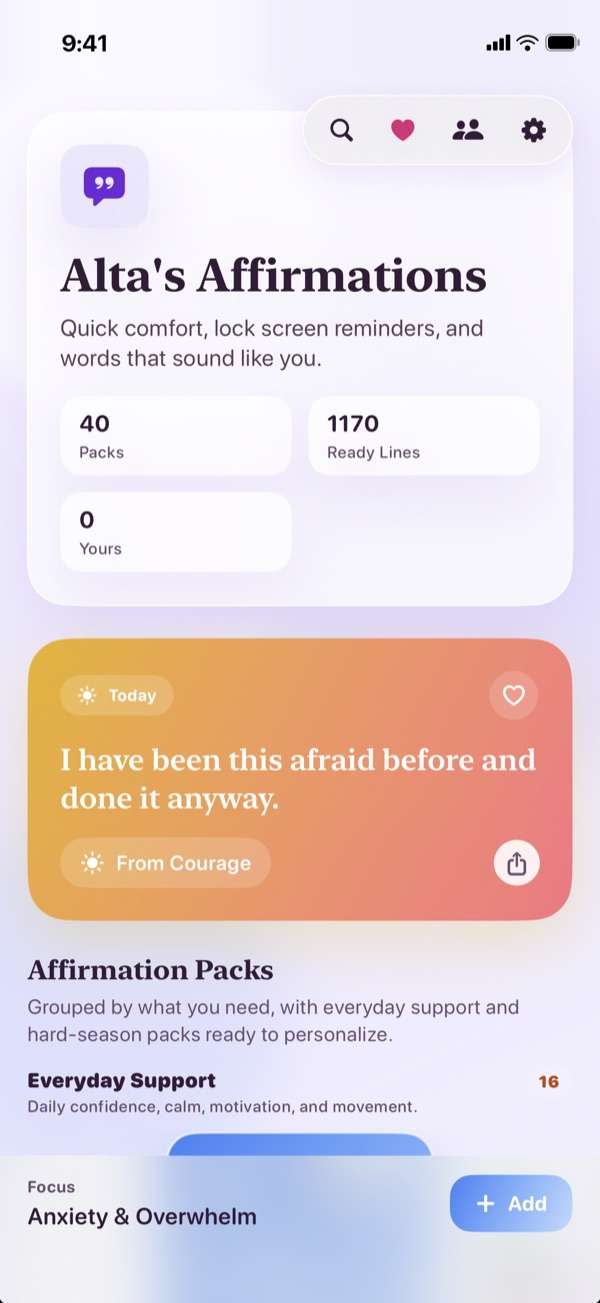
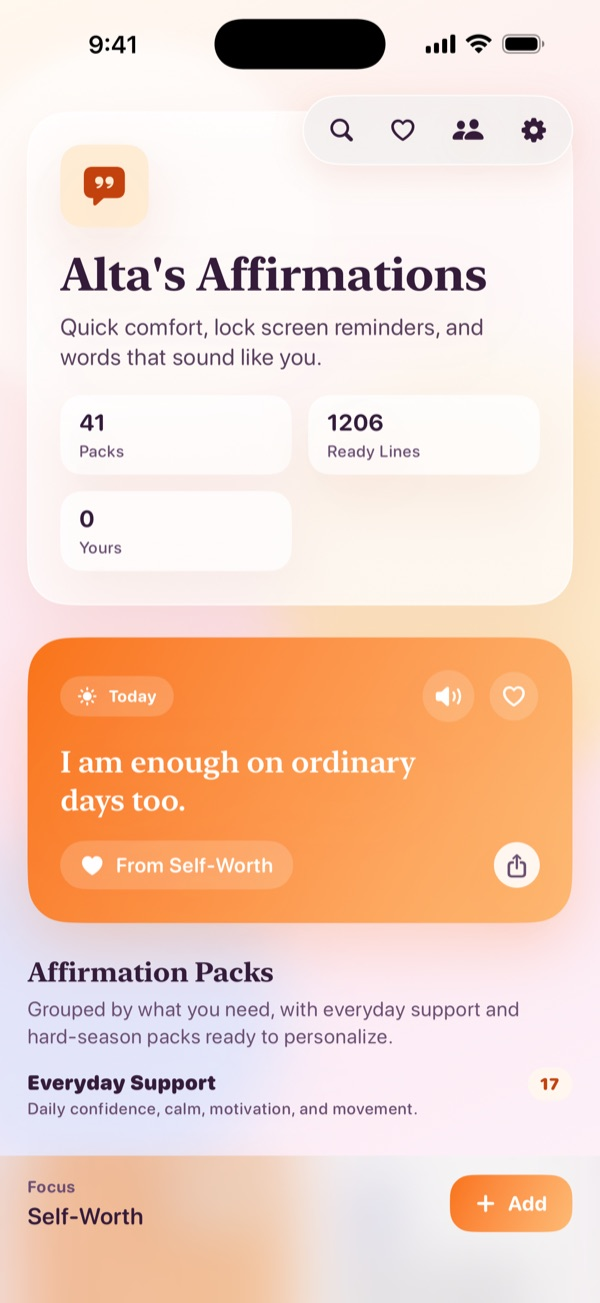
Update site

diff --git a/alta.html b/alta.html
@@ -73,7 +73,7 @@
           <div class="phone-frame">
             <span class="phone-island" aria-hidden="true"></span>
             <div class="phone-screen phone-screen--shot">
-              <img src="assets/shots/alta-hero.jpg" alt="Alta's Affirmations on iPhone: today's affirmation, “I have been this afraid before and done it anyway,” above the affirmation packs" width="600" height="1304">
+              <img src="assets/shots/alta-hero.jpg" alt="Alta's Affirmations on iPhone: 41 packs and 1,206 ready lines, then today's affirmation, “I am enough on ordinary days too,” above the affirmation packs" width="600" height="1304">
             </div>
           </div>
         </div>
